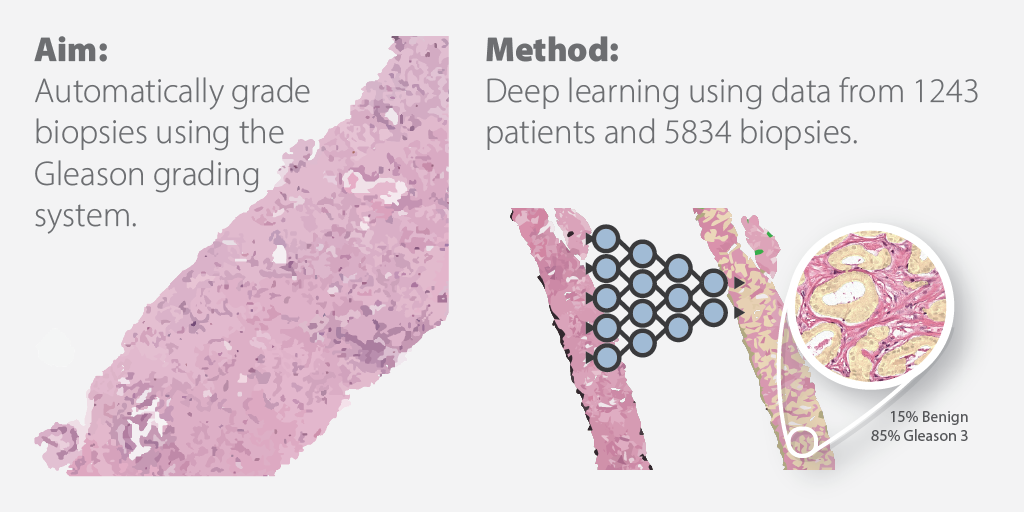
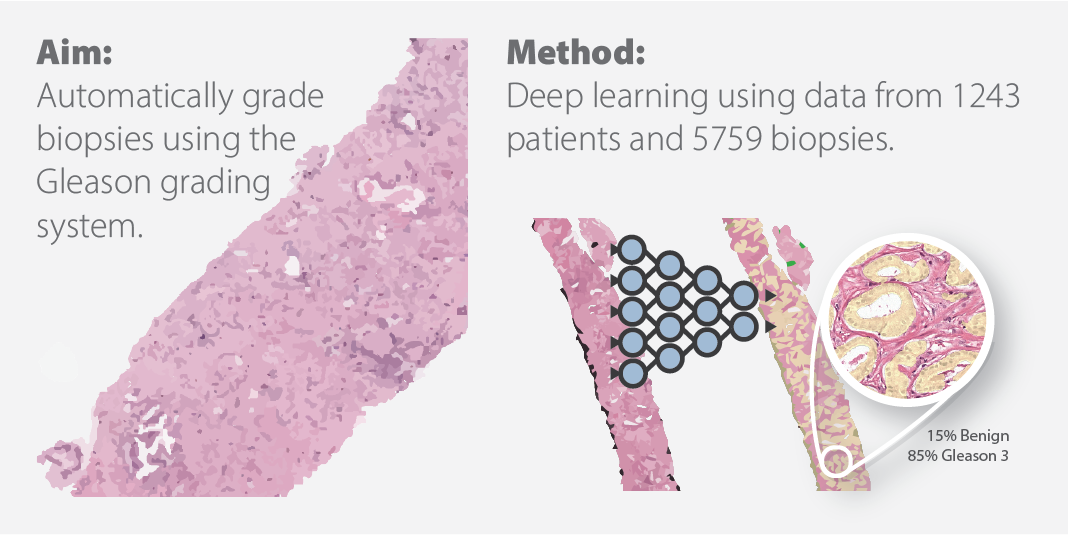
Fix incorrect number

diff --git a/_posts/tech/2019-07-23-automated-gleason-grading-deep-learning.md b/_posts/tech/2019-07-23-automated-gleason-grading-deep-learning.md
@@ -6,7 +6,7 @@ modified_at: 2019-12-29 13:03
 categories: blog tech
 tags: [research, deep learning, prostate cancer, Gleason grading]
 published: true
-description: "We developed a fully automated deep learning system to grade prostate biopsies using 5834 biopsies from 1243 patients, and showed that this system achieved pathologist-level performance."
+description: "We developed a fully automated deep learning system to grade prostate biopsies using 5759 biopsies from 1243 patients, and showed that this system achieved pathologist-level performance."
 include_ha_series: false
 image: /assets/images/gleason-grading/gleason_grading_social_image.png
 lazyload_standalone: false
@@ -16,7 +16,7 @@ imageslider: true
 openseadragon: true
 ---
 
-**100-word summary:** The Gleason score is the most important prognostic marker for prostate cancer patients but suffers from significant inter-observer variability. We developed a fully automated deep learning system to grade prostate biopsies. The system was developed using 5834 biopsies from 1243 patients. A semi-automatic labeling technique was used to circumvent the need for full manual annotation by pathologists. The developed system achieved a high agreement with the reference standard. In a separate observer experiment, the deep learning system outperformed 10 out of 15 pathologists. The system has the potential to improve prostate cancer prognostics by acting as a first or second reader.
+**100-word summary:** The Gleason score is the most important prognostic marker for prostate cancer patients but suffers from significant inter-observer variability. We developed a fully automated deep learning system to grade prostate biopsies. The system was developed using 5759 biopsies from 1243 patients. A semi-automatic labeling technique was used to circumvent the need for full manual annotation by pathologists. The developed system achieved a high agreement with the reference standard. In a separate observer experiment, the deep learning system outperformed 10 out of 15 pathologists. The system has the potential to improve prostate cancer prognostics by acting as a first or second reader.
 
 <img src="/assets/images/gleason-grading/gleason_grading_header_image.png" style="max-width: 100%;" alt="Automated Gleason Grading using Deep Learning and Artificial Intelligence.">
 
